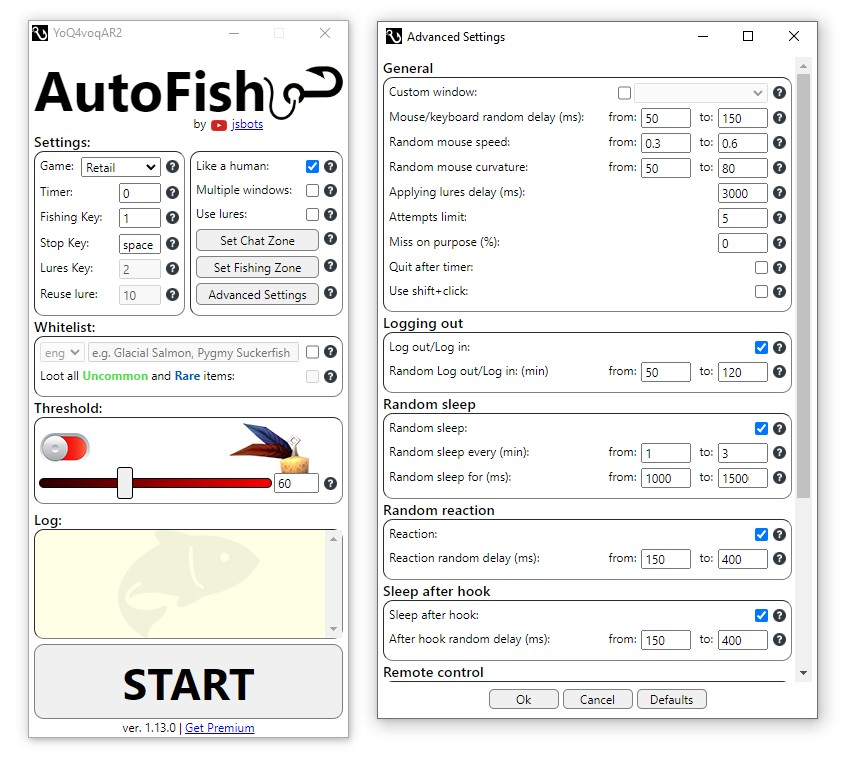
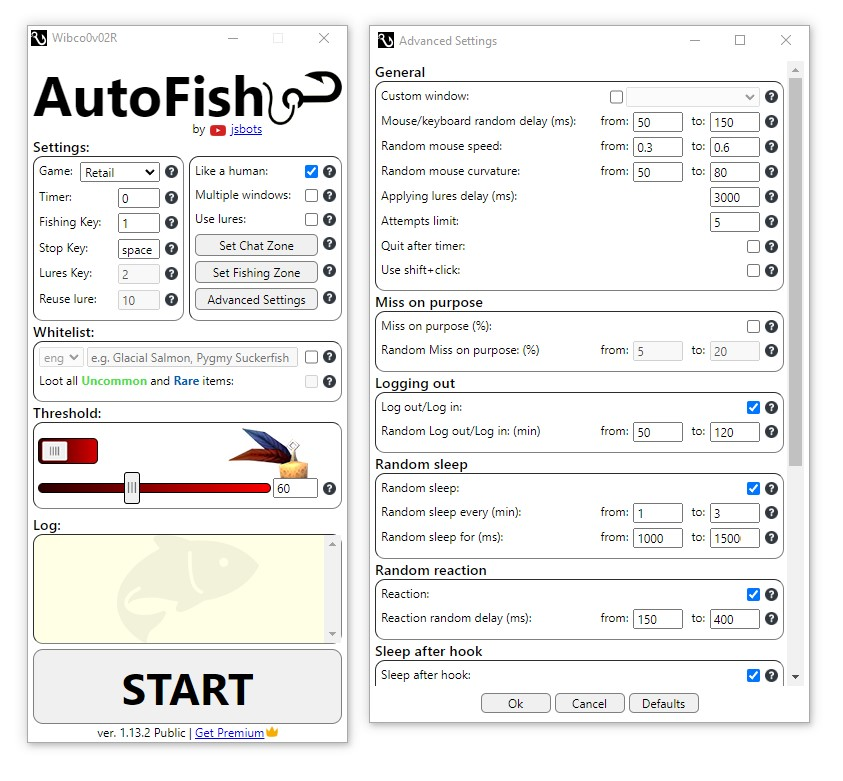
1.13.2

Changed region(s): [[0.0308, 0.0301, 0.987, 0.9922]]

diff --git a/app/ui/autoFish.js b/app/ui/autoFish.js
@@ -51,7 +51,7 @@ class AutoFish {
     const footer = elt(`p`, { className: "version" }, versionNode, donateLink, premiumIcon);
 
     ipcRenderer.on("set-version", (event, version) => {
-      versionNode.textContent = `ver. 1.13.1 Public | `;
+      versionNode.textContent = `ver. 1.13.2 Public | `;
     });
     this.settings.regOnChange((config) => {
       ipcRenderer.send("save-settings", config);
